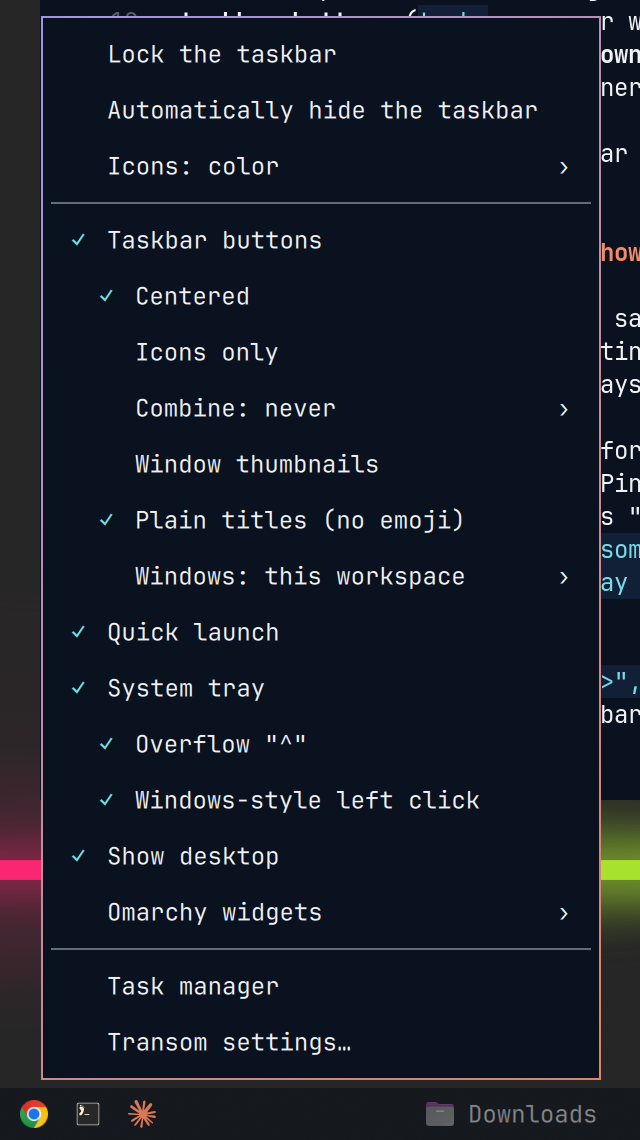
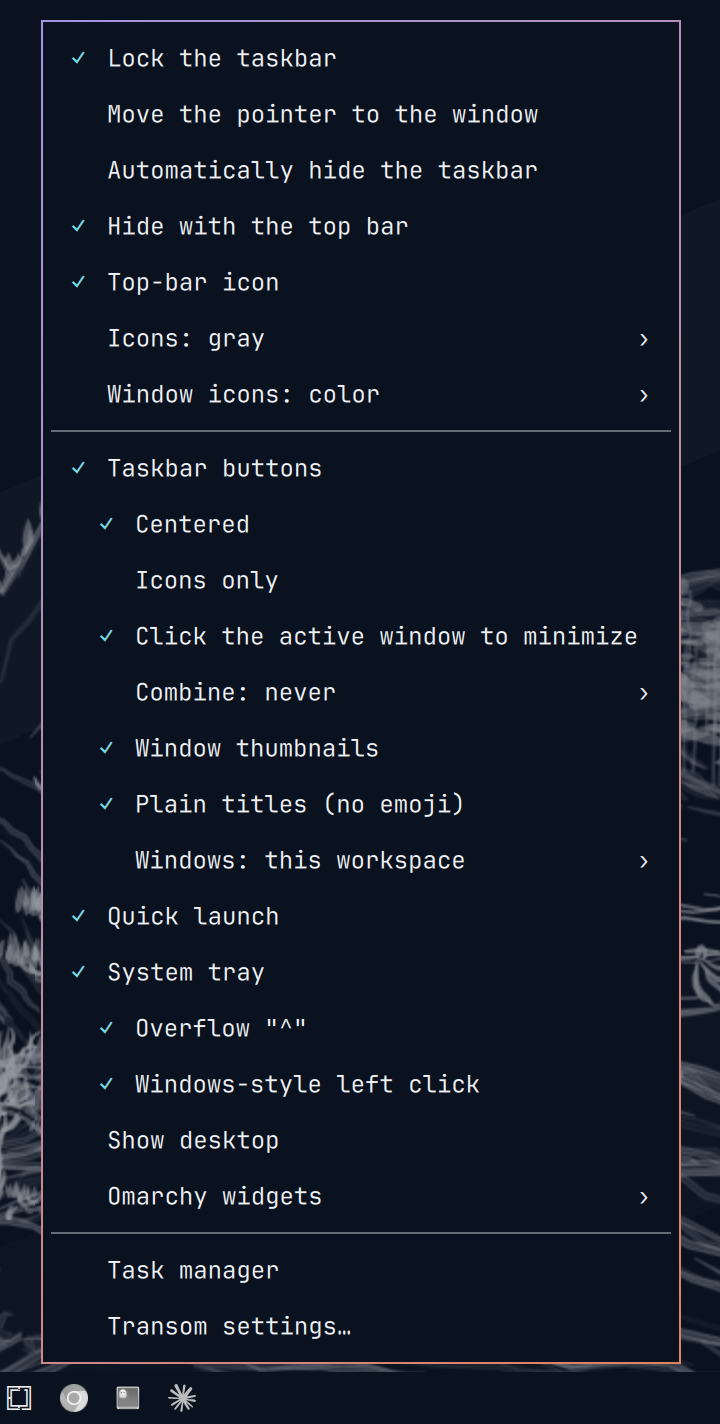
README: the bar menu re-shot, and a picture of the top-bar dropdown
The bar menu picture predated five of its rows. The dropdown had no picture
at all. Both shot on an empty workspace, cropped to the menu and panel.

diff --git a/README.md b/README.md
@@ -71,6 +71,8 @@ across a window. This one sits across all of yours.)
 
 - **An optional icon on Omarchy's top bar** to show or hide the taskbar
   (middle-click it) and reach its main settings. See "Top-bar widget".
+
+  <img src="media/top-bar-dropdown.png" alt="The top-bar icon's dropdown: Show the taskbar, then the bar, tray, quick launch, taskbar button and icon settings" width="480">
 - **And:** auto-hide that gives windows the space back, emoji-free window
   titles, one bar per screen (or just the primary), and every option in one
   JSON file.
